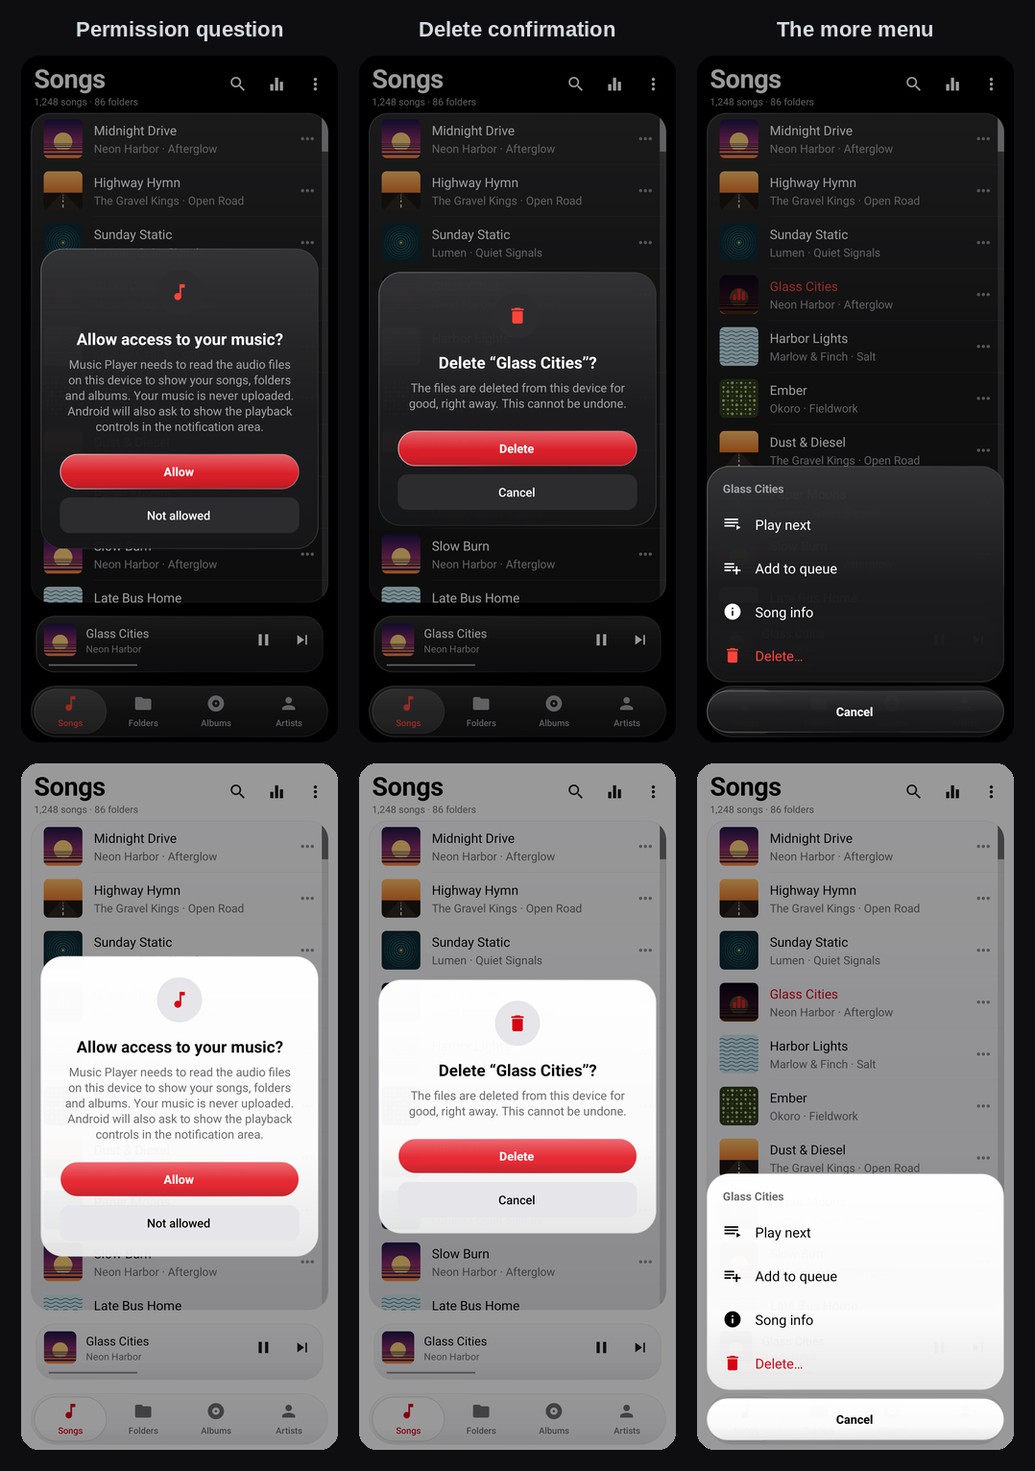
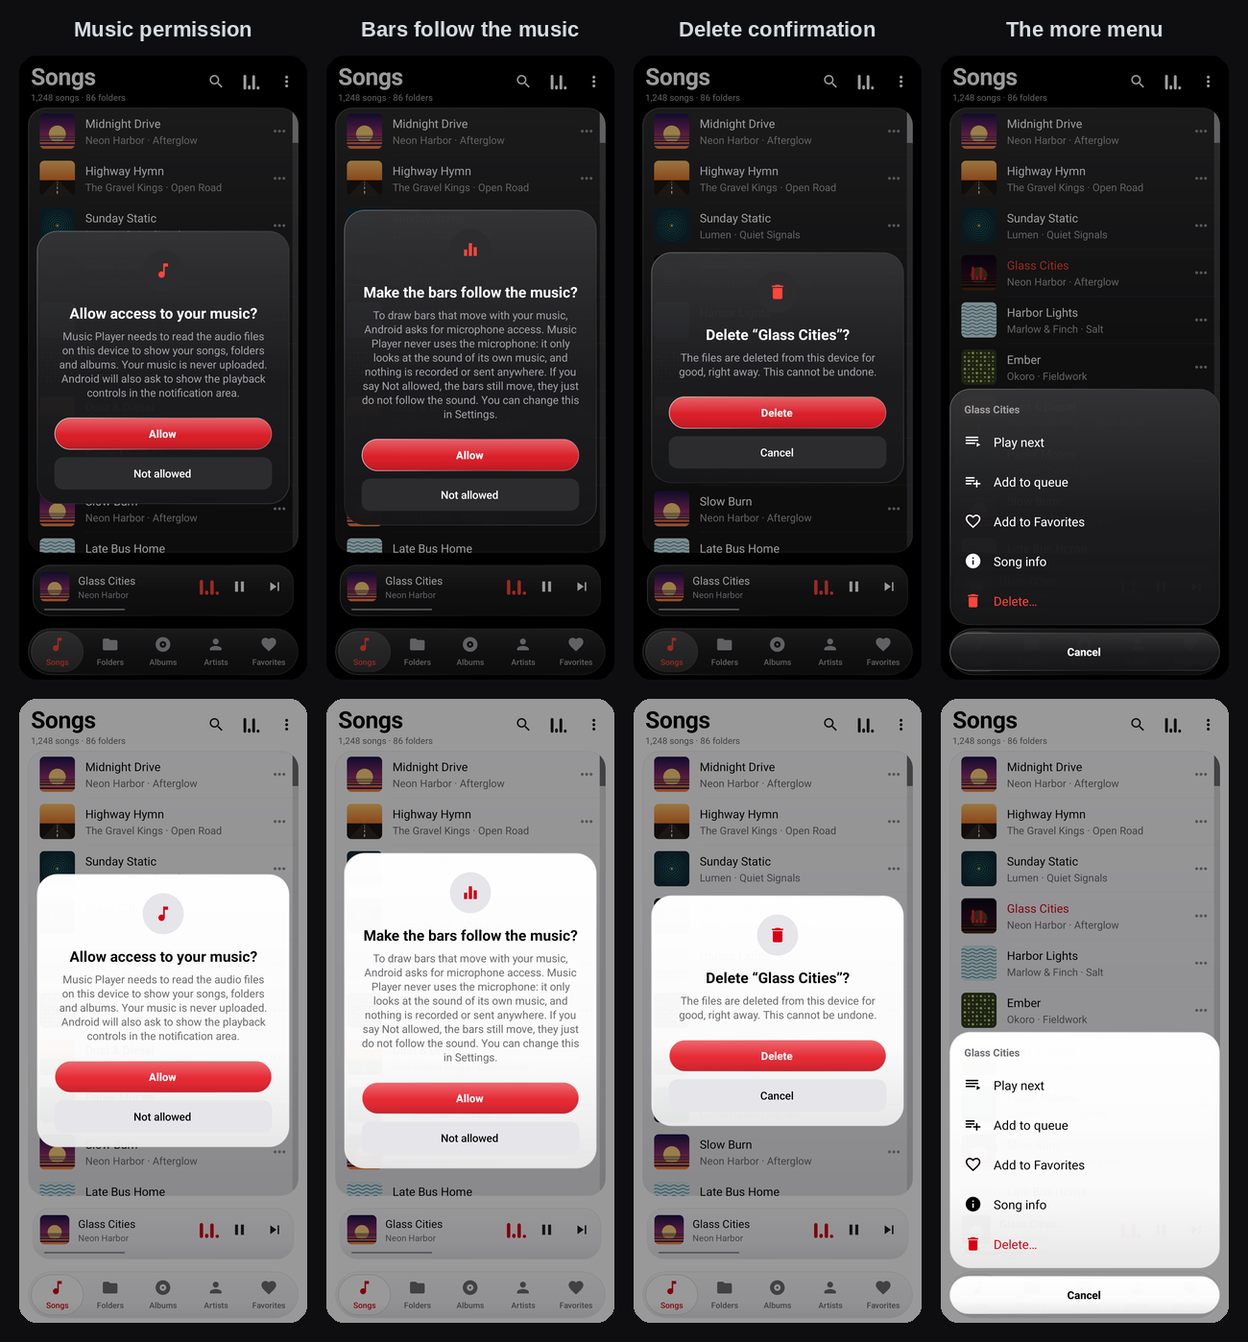
Update the README, changelog and screenshots for 1.3.0
New pictures rendered from the real layouts: Favorites, the moving bars
(playing, paused, on the Equalizer screen, in the lists, and an animation of
the Now Playing screen), the question before the bars may follow the sound, and
the Settings switch. The README now covers favorites, the moving bars and how
they follow the sound, the new microphone permission and what has not been
tried on real devices.

Claude-Session: https://claude.ai/code/session_019ZqbsFQwfGmcDySkHcjc6k

diff --git a/README.md b/README.md
@@ -2,13 +2,15 @@
 
 A small, fast music player for Android 8.0 and newer, with a clean look inspired by Apple Music: white pages (black in dark mode), a red accent, large titles and a tab bar at the bottom. It is made for phones and for **car head units** (Android car stereos): it finds every song in every folder, including USB drives and SD cards, it has a real equalizer that can also read and control the device's own, and it can **update itself** from this repository's releases.
 
-* **Tiny:** the installable APK is about 160 KB. No libraries, no ads, no tracking.
+* **Tiny:** the installable APK is about 170 KB. No libraries, no ads, no tracking.
 * **Private:** your music never touches the network. The only thing the app ever asks the internet is "is there a newer release on GitHub?", at most once a day, and you can turn even that off.
 * **Every folder, every song:** Songs, Folders, Albums and Artists tabs, search, and a folder browser that shows each storage volume.
 * **Light, dark or automatic:** by default the app **follows your device** and switches when it does. You can also force Light or Dark.
 * **Liquid glass:** an optional look with frosted glass panels. Behind them you choose a plain white or black page, the blurred cover art, **your own picture**, or **your device wallpaper**.
 * **Glass pop-ups:** every permission question starts with a liquid-glass message that says why, with **Allow** and **Not allowed**.
 * **Delete songs for good:** from a song's more button, or a whole album, artist or folder. You confirm first; the files are then gone at once.
+* **Favorites:** a heart on the Now Playing screen and in every song's menu, a **Favorites** tab with Play and Shuffle, and a small heart on favorite songs in every list.
+* **Moving equalizer bars:** big, thin bars over the cover on Now Playing, and small ones on the playing song in every list, in the mini player and as the Equalizer button. They rise and fall with the music: if you allow it they follow the **real sound**, otherwise they move on their own.
 * **Equalizer:** presets, a slider per band, bass boost, surround and volume boost. The screen also shows what the **device's own equalizer** says, and can copy it or control it where Android allows.
 * **Widget and icon:** a home-screen widget with cover and playback buttons (Follow my device, Light or Dark), and a new app icon.
 * **Updates in Settings:** check for, download, verify and install a new version without leaving the app.
@@ -22,9 +24,19 @@ The looks. **Follow my device** picks Dark or Light for you. **Liquid glass** ca
 
 <img src="docs/screenshots/looks.png" alt="Songs and Now playing in six looks: dark, light, liquid glass on dark and on light, glass over cover art, and glass over a picture">
 
-Pop-ups and menus are liquid glass too, in every look:
+Favorites: the heart on Now Playing, **Add to Favorites** in every song's menu, hearts in the lists, and the Favorites tab:
 
-<img src="docs/screenshots/popups.png" alt="The permission question, the delete confirmation and the more menu, in glass, on dark and light">
+<img src="docs/screenshots/favorites.png" alt="Songs with hearts, the more menu with Add to Favorites, Now Playing with the heart, and the Favorites tab, on dark and light">
+
+The moving equalizer bars: big thin bars over the cover on Now Playing while it plays, settled while it is paused, bars that follow the sliders on the Equalizer screen, and small bars on the song that is playing. The animation is the real Now Playing screen, drawn at 16 moments in a row:
+
+<img src="docs/screenshots/bars.png" alt="Now Playing with big bars playing and paused, the Equalizer screen with bars following the sliders, and the song list with the moving bars, on dark and light">
+
+<img src="docs/screenshots/equalizer-motion.gif" width="270" alt="The Now Playing screen with the equalizer bars moving over the cover">
+
+Pop-ups and menus are liquid glass too, in every look. The music permission, the question before the bars may follow the sound, the delete confirmation and the more menu:
+
+<img src="docs/screenshots/popups.png" alt="The music permission question, the question about the bars following the music, the delete confirmation and the more menu, in glass, on dark and light">
 
 Settings, with the update card in four of its states:
 
@@ -36,9 +48,9 @@ The home-screen widget in its three styles, and the app icon:
 
 Phone and car head unit (1280 × 720, landscape):
 
-<img src="docs/screenshots/overview.png" alt="Songs, Now playing, Equalizer and Settings on a phone; the player with the library, and the equalizer, on a car head unit">
+<img src="docs/screenshots/overview.png" alt="Songs, Now playing, Favorites and Equalizer on a phone; the player with the library, and the equalizer, on a car head unit">
 
-Single screens: [Songs](docs/screenshots/phone-songs.png) ([light](docs/screenshots/phone-songs-light.png)), [Folders](docs/screenshots/phone-folders.png), [Albums](docs/screenshots/phone-albums.png), [Now playing](docs/screenshots/phone-now-playing.png) ([light](docs/screenshots/phone-now-playing-light.png)), [Equalizer](docs/screenshots/phone-equalizer.png), [Up next](docs/screenshots/phone-queue.png), [Settings](docs/screenshots/phone-settings.png), [Car library](docs/screenshots/car-library.png) ([in glass](docs/screenshots/car-library-glass.png)), [Car equalizer](docs/screenshots/car-equalizer.png).
+Single screens: [Songs](docs/screenshots/phone-songs.png) ([light](docs/screenshots/phone-songs-light.png)), [Favorites](docs/screenshots/phone-favorites.png) ([light](docs/screenshots/phone-favorites-light.png)), [Folders](docs/screenshots/phone-folders.png), [Albums](docs/screenshots/phone-albums.png), [Now playing](docs/screenshots/phone-now-playing.png) ([light](docs/screenshots/phone-now-playing-light.png)), [Equalizer](docs/screenshots/phone-equalizer.png), [Up next](docs/screenshots/phone-queue.png), [Settings](docs/screenshots/phone-settings.png), [Car library](docs/screenshots/car-library.png) ([in glass](docs/screenshots/car-library-glass.png)), [Car equalizer](docs/screenshots/car-equalizer.png).
 
 ## Install
 
@@ -50,7 +62,7 @@ Single screens: [Songs](docs/screenshots/phone-songs.png) ([light](docs/screensh
 3. Open the file and allow **Install unknown apps** for the app you opened it with when Android asks.
 4. Or, from a computer with `adb`: `adb install -r app-release.apk`
 
-On first start the app asks for permission to read music (and, on Android 13+, to show the playback notification).
+On first start the app asks for permission to read music (and, on Android 13+, to show the playback notification). The first time music plays on the Now Playing screen it also asks, once, whether the moving bars may follow the real sound (see [Moving equalizer bars](#moving-equalizer-bars)); the app works the same if you say no.
 
 **Coming from version 1.0.0?** Uninstall it first. It was signed with a throw-away key, and Android never updates an app across keys. Once releases are signed with a stable key (see [Signing and updates](#signing-and-updates)), updates install over the top and keep your settings.
 
@@ -90,6 +102,7 @@ How it is built, in case you want to change it:
 |---|---|---|
 | Appearance | Theme | Follow my device, Light or Dark. |
 | Appearance | Liquid glass | The glass look above. |
+| Appearance | Bars follow the music | Let the moving bars follow the real sound. Needs the permission Android calls microphone, which the app only uses to read its own music. See [Moving equalizer bars](#moving-equalizer-bars). |
 | Liquid glass background | White or black, Cover art, My picture, Device wallpaper | What shows behind the glass panels. |
 | Library | Show all audio files | Include ringtones, voice notes and other short sounds. |
 | Library | Scan storage for music | Index new files on internal storage, SD cards and USB drives. |
@@ -106,6 +119,7 @@ Android versions differ in what they need, so the app asks in one place, and alw
 | First start | Read your music: `READ_MEDIA_AUDIO` (13 and newer) or `READ_EXTERNAL_STORAGE` (12 and older). Android 13 and newer also ask to show the playback controls (`POST_NOTIFICATIONS`). | all |
 | Deleting a song | Write access to delete files, once. | 10 and older only. Android 11 and newer show their own "allow deleting?" screen for each delete instead. |
 | Installing an update | "Install unknown apps" for Music Player, once. | all |
+| The first time music plays on Now Playing | "Make the bars follow the music?" The permission Android calls microphone (`RECORD_AUDIO`), used only to read the app's own sound. | all. Asked once; Settings has a switch. |
 | Using your wallpaper | Reading the wallpaper picture. If Android says no, its colours are used. | storage permission on 12 and older; not available on 13 and newer |
 | After Android stops asking | A pop-up with **Open settings** for this app's page. | all |
 
@@ -117,9 +131,31 @@ Tap a song's **⋯** (or long-press anything in a list): **Delete…**. For an a
 * **Android 10 and older:** the app asks for write access once, then deletes directly.
 * Deleted songs are removed from the play queue. If the song that was playing is deleted, playback moves on.
 
+## Favorites
+
+Tap the **heart** on the Now Playing screen, or **⋯ → Add to Favorites** on a song. On an album, artist or folder the same menu says **Add all to Favorites**. The **Favorites** tab, the last one in the tab bar, lists them newest first, with **Play all** and **Shuffle**; tapping one plays the favorites in that order. A small heart marks a favorite song in every list.
+
+* A favorite is remembered by its **file path**, not by the library's internal number, so it survives scanning the library again. If the file is gone the song is hidden, and it comes back if the file does.
+* A song you delete from the app is taken off the list.
+* Favorites are saved on the device only.
+
+## Moving equalizer bars
+
+Bars that rise and fall while music plays and settle when you pause:
+
+* **Big bars over the cover** on the Now Playing screen: many thin white bars, tall for the bass and short for the treble, like a music spectrum.
+* **Small bars** on the song that is playing in every list, in the mini player, and as the **Equalizer button** at the top of the library and the player (tap it to open the equalizer).
+* **Equalizer screen:** a row of bars at the top whose heights follow the sliders: a boosted band lets its bars reach the top, a cut band keeps them low.
+
+**Following the real sound.** The app reads the sound of its own player through Android's Visualizer effect and turns it into 48 bars from bass to treble (an FFT, scaled against the loudest recent sound so it looks the same at any volume, with bars that fall back gradually). Android only allows this with the permission it calls **microphone** (`RECORD_AUDIO`), although the app never uses the microphone: it listens only to the audio session of its own player, and nothing is recorded or sent anywhere. The app asks **once**, in a glass pop-up, the first time music plays on the Now Playing screen. **Settings → Bars follow the music** switches it on or off later.
+
+Without the permission, or on a device that refuses (many head units do), the bars keep a motion of their own. It looks like a spectrum but is **not** measured from the sound. Android may show its microphone indicator while the bars follow the sound (not verified).
+
+**Battery.** One listener serves every bar on screen. It runs only while a bar is visible and music is playing, and it stops when you pause, hide the screen or leave. With **Remove animations** switched on in Android, the bars stand still.
+
 ## Equalizer and the device equalizer
 
-The equalizer works on this player's own audio, so other apps keep their own sound. At the top of the screen a **Device equalizer** card says what Android's own equalizer is doing: on or off, and which preset is selected.
+The equalizer works on this player's own audio, so other apps keep their own sound. A row of [moving bars](#moving-equalizer-bars) at the top follows the sliders. At the top of the screen a **Device equalizer** card says what Android's own equalizer is doing: on or off, and which preset is selected.
 
 * **Read from device** copies the device's on/off state and curve into this player's equalizer.
 * **Control the whole device** makes the sliders change the equalizer of the whole device instead (every app is affected, and this player's own equalizer steps aside so the sound is not shaped twice). It stays on only while Music Player runs.
@@ -183,7 +219,7 @@ gradlew.bat assembleRelease
 
 The APK is written to `app/build/outputs/apk/release/app-release.apk`. If you build without Android Studio, create `local.properties` containing `sdk.dir=/path/to/Android/sdk`.
 
-The version comes from one place. `app/build.gradle` has a default, and `-PappVersion=1.2.0` overrides it (the release workflow does this). `versionCode` is derived from it: `major × 10000 + minor × 100 + patch`.
+The version comes from one place. `app/build.gradle` has a default, and `-PappVersion=1.3.0` overrides it (the release workflow does this). `versionCode` is derived from it: `major × 10000 + minor × 100 + patch`.
 
 ### Tests
 
@@ -192,7 +228,7 @@ The version comes from one place. `app/build.gradle` has a default, and `-PappVe
 ```
 
 * Plain JVM tests for the play queue (shuffle, repeat, editing), the folder tree and volume naming, equalizer presets, text formatting and version comparison.
-* Robolectric tests that open every screen against a fake MediaStore, play through a fake `MediaPlayer`, and check each look (dark, light, and glass over each kind of background) including how the glass backdrop keeps text readable on any cover. They also go through the "more" menu and the delete confirmation for each Android version's way of deleting, the glass pop-ups and the permission questions, choosing a picture or the wallpaper for the glass, the widget and its style screen, and what the equalizer screen says about the device equalizer (with a pretend device equalizer, since a test runtime has none). The updater tests exercise it against a local test server (finding a release, being rate-limited or offline, downloading, a wrong checksum, a file the verifier rejects, refusing plain HTTP, cancelling, remembering a release while offline, the once-a-day limit, the install permission), the file checks (another app, an old version, a different signing key), and every state of the update card.
+* Robolectric tests that open every screen against a fake MediaStore, play through a fake `MediaPlayer`, and check each look (dark, light, and glass over each kind of background) including how the glass backdrop keeps text readable on any cover. They also cover Favorites (adding from the menu and the heart, the tab, the order, saving, deleting), the moving bars (their motion, when they run and when they stop, the bars shaped like a spectrum, the car layout), the sound analysis with made-up sound, when the app listens to the sound, the permission question and the Settings switch, and they go through the "more" menu and the delete confirmation for each Android version's way of deleting, the glass pop-ups and the permission questions, choosing a picture or the wallpaper for the glass, the widget and its style screen, and what the equalizer screen says about the device equalizer (with a pretend device equalizer, since a test runtime has none). The updater tests exercise it against a local test server (finding a release, being rate-limited or offline, downloading, a wrong checksum, a file the verifier rejects, refusing plain HTTP, cancelling, remembering a release while offline, the once-a-day limit, the install permission), the file checks (another app, an old version, a different signing key), and every state of the update card.
 * Robolectric downloads an Android SDK jar from Maven Central on first run.
 
 The GitHub Actions workflow in `.github/workflows/build.yml` builds the APK on every push (and uploads it first), then runs the tests and lint.
@@ -205,10 +241,10 @@ For whoever owns the repository. An installed app offers an update when this rep
 
 **For each release:**
 
-1. Add an entry for the new version to [CHANGELOG.md](CHANGELOG.md), for example `## [1.2.0] - 2027-01-15`, and push it to `main`. Its text becomes the release notes the app shows under "What's new", so keep it short and in plain sentences.
-2. On GitHub open **Actions → Publish release → Run workflow**, type the version (`1.2.0`) and run it.
+1. Add an entry for the new version to [CHANGELOG.md](CHANGELOG.md), for example `## [1.4.0] - 2027-01-15`, and push it to `main`. Its text becomes the release notes the app shows under "What's new", so keep it short and in plain sentences.
+2. On GitHub open **Actions → Publish release → Run workflow**, type the version (`1.4.0`) and run it.
 
-The workflow checks that the version is valid and newer, runs the tests and lint, builds the APK with that version, signs it, checks the result with `apksigner` and `aapt2`, and creates the release `v1.2.0` with `MusicPlayer-1.2.0.apk` and `MusicPlayer-1.2.0.apk.sha256` attached. Nothing else is needed.
+The workflow checks that the version is valid and newer, runs the tests and lint, builds the APK with that version, signs it, checks the result with `apksigner` and `aapt2`, and creates the release `v1.4.0` with `MusicPlayer-1.4.0.apk` and `MusicPlayer-1.4.0.apk.sha256` attached. Nothing else is needed.
 
 * It only runs on the default branch, so an update never ships unreviewed work.
 * It refuses a version that is not higher than the latest release, because installed apps only move forward. Drafts and prereleases are ignored by the app, which uses GitHub's "latest release".
@@ -251,6 +287,8 @@ Use the same password for the store and the key: the default PKCS #12 key store 
 | `GlassDialog`, `Permissions` | The liquid-glass alert and action sheet, and every permission question, decided per Android version. |
 | `MediaDeleter` | Deleting songs: the system request on Android 11 and newer, direct deletion before. |
 | `DeviceEq` | The device equalizer (output mix) as far as Android allows, behind a small interface so it can be tested. |
+| `Favorites` | The hearted songs: remembered by file path, newest first, saved in the preferences, with listeners that refresh the screens. |
+| `EqBarsView`, `SoundBars`, `SpectrumAnalyzer`, `VisualizerSource` | The moving bars: one shared animation clock, the real sound through Android's Visualizer (listening only while bars are visible and playing), the arithmetic that turns an FFT into bars, and the bars' own motion when the sound is not available. |
 | `PlayerWidget`, `WidgetConfigActivity` | The home-screen widget and the screen where its style is chosen. |
 | `Updater`, `Release`, `ReleaseApi` | The update state machine (check, download, verify, install), GitHub release parsing, and the HTTPS download with a checksum. |
 | `ApkVerifier`, `UpdateInstaller`, `InstallReceiver` | Checks the downloaded file (package, version, signing key) and hands it to Android's `PackageInstaller`. |
@@ -267,13 +305,15 @@ Only Android framework APIs are used, and the app is written in Java. That is wh
 | `WAKE_LOCK` | Stop the CPU sleeping in the middle of a song. |
 | `MODIFY_AUDIO_SETTINGS` | Standard permission for apps that use audio effects. |
 | `WRITE_EXTERNAL_STORAGE` (Android 10 and older only) | Delete songs. Android 11 and newer never grant it and ask per delete instead. The app also sets `requestLegacyExternalStorage` so Android 10 lets it delete files directly. |
+| `RECORD_AUDIO` | Only for the bars that follow the music: Android's Visualizer needs it, although the app never uses the microphone and records nothing. Asked once in a glass pop-up; the app works without it. |
 | `INTERNET` | Only to look for updates and download them from GitHub. |
 | `REQUEST_INSTALL_PACKAGES` | Only so Android lets the app hand a downloaded update to the installer. Android still asks you to confirm every install. |
 
 ## Status and limits
 
-* **Checked:** 195 automated tests, Android lint, an R8-shrunk release build whose version, signature and manifest were inspected with `apksigner` and `aapt2`, and renders of every screen in all eight looks (dark and light, flat and over each glass background).
+* **Checked:** 324 automated tests, Android lint, an R8-shrunk release build whose version, signature and manifest were inspected with `apksigner` and `aapt2`, and renders of every screen in all eight looks (dark and light, flat and over each glass background).
 * **Not yet run on real hardware or an emulator.** Actual sound output, the hardware equalizer effects, notifications, head-unit specifics (USB mounting, key mapping), how the glass look performs on slow head units, the real Android installer dialog during an update, Android's own delete confirmation on Android 11 and newer, the wallpaper on different versions, and the widget on different launchers all need hands-on testing. If something misbehaves, please open an issue with the device model and Android version.
+* **Following the real sound is untested on real devices.** Android's Visualizer behaves differently from device to device and many head units do not support it; the app then keeps the bars' own motion. The sound analysis itself is tested with made-up sound only, and whether Android shows its microphone indicator has not been checked.
 * The device equalizer is best effort: many devices do not let an app see or change it, and the card then says so. Controlling it affects every app and lasts only while Music Player runs.
 * Reading the wallpaper *picture* is not possible on the newest Android versions; the wallpaper's colours are used instead.
 * Updating needs a published GitHub release, signed with a stable key. Until the first one exists, "Check for updates" says no update has been published yet.

diff --git a/CHANGELOG.md b/CHANGELOG.md
@@ -4,6 +4,14 @@ The newest version is first. The release workflow publishes a version's entry as
 release's notes, and the app shows those notes under Settings > Updates. Keep each entry
 short and in plain sentences: the app shows it as plain text.
 
+## [1.3.0] - 2026-11-12
+
+- Favorites. Tap the heart on the Now Playing screen, or choose Add to Favorites in the more (...) menu of a song. For an album, an artist or a folder the same menu adds all its songs at once. The new Favorites tab lists them, newest first, with Play and Shuffle, and a small heart marks a favorite song in every list. A song you delete is taken off the list.
+- Moving equalizer bars. Big, thin bars rise over the cover on the Now Playing screen, tall for the bass and short for the treble. Small ones show on the song that is playing in every list, in the mini player, and as the Equalizer button at the top, which opens the equalizer. On the Equalizer screen a row of bars follows your sliders.
+- The bars can follow the real sound. The first time music plays on the Now Playing screen, a glass pop-up asks if they may. Android calls this the microphone permission, but the app only reads the sound of its own music and never uses the microphone. If you say Not allowed, the bars still move on their own. Settings has a switch: Bars follow the music.
+- The bars stand still if you turned animations off in Android, and they stop whenever the screen is not showing, so they do not use battery in the background.
+- Good to know: this version adds the microphone permission, only for the bars and asked once. Many head units do not let apps read the sound; there the bars keep their own motion. Favorites are remembered by file, so they stay even if the library is scanned again.
+
 ## [1.2.0] - 2026-11-12
 
 - A new look, like Apple Music: white pages (black in dark mode), a red accent, large titles, a tab bar at the bottom, round artwork and a clean Now Playing screen. Every earlier feature is still there.
